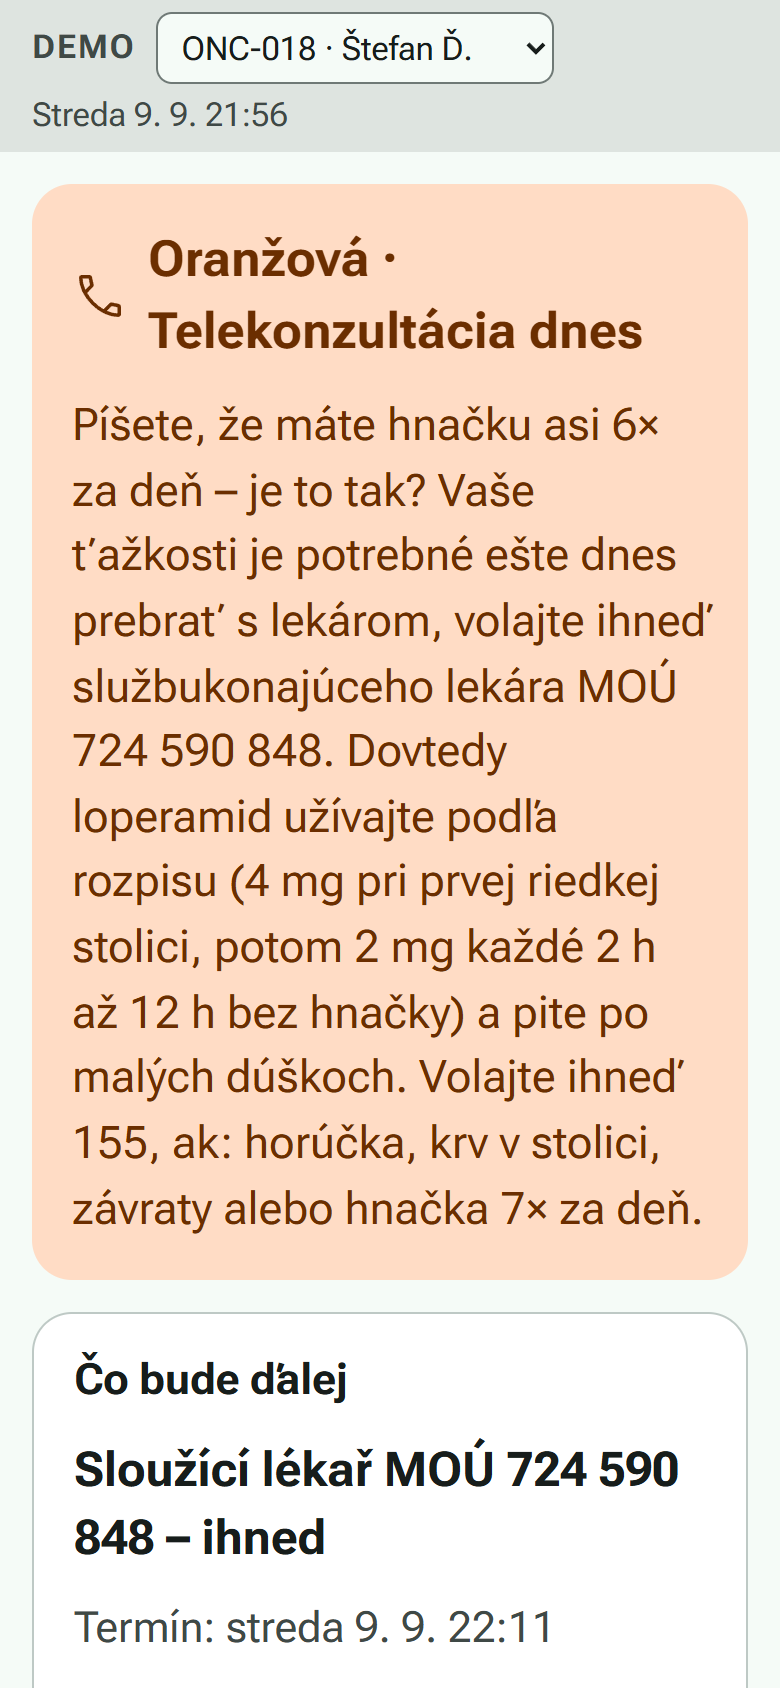
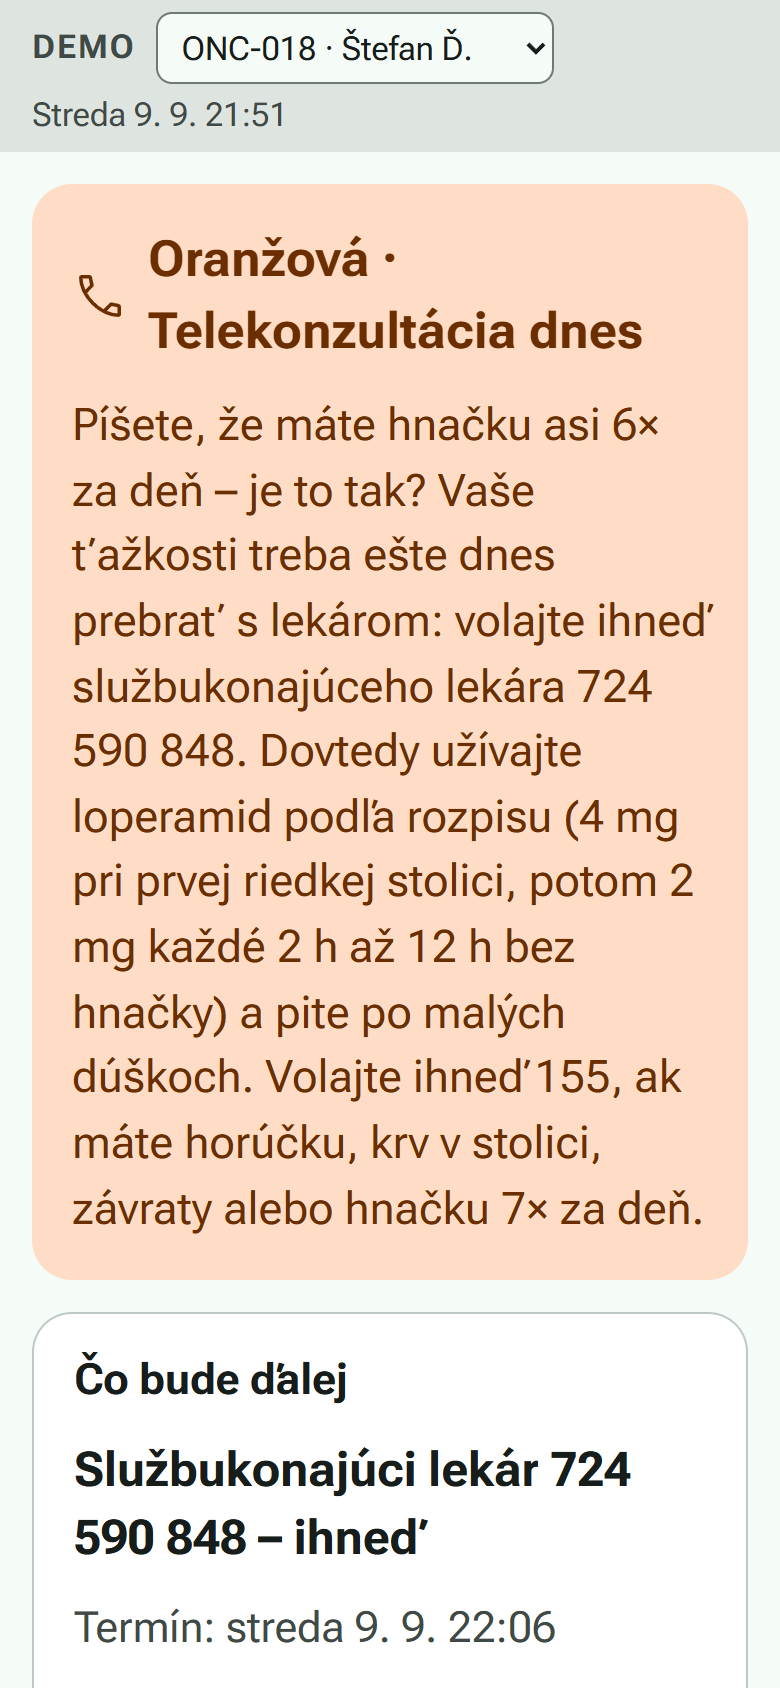
Refresh the README visuals without MOÚ and show notifications and IRIS
Every screenshot, the hero and the recordings are captured again from the
live demo after the institution name left the apps. New: a reminders
section with the notification rules and a lock screen, and a recording of
the read-only IRIS view with SQL over FHIR, FHIR resources and production
traces. The technical docs list the Notifikace, IRIS and portal routes.

diff --git a/README.md b/README.md
@@ -52,8 +52,25 @@ and opens full screen like any other app, with no app store needed.
 |---|---|---|
 | Open [pacient.nastasiya.com](https://pacient.nastasiya.com/) in **Safari**, tap **Share**, then **Add to Home Screen** | Open the link in **Chrome**, tap the menu **⋮**, then **Install app** or **Add to Home screen** | In **Chrome** or **Edge**, click the install icon in the address bar |
 
-On a phone the app is one clear column; on a tablet it fills the whole screen. Reminders on iPhone and iPad work in
-the installed app (iOS 16.4 or newer). The clinician web is made for computers and also opens on tablets and phones.
+On a phone the app is one clear column; on a tablet it fills the whole screen. The clinician web is made for
+computers and also opens on tablets and phones.
+
+## Reminders on the phone
+
+<img src="docs/screenshots/notifications.png" width="100%" alt="Left: the notification rules in the clinician web. Right: a locked phone showing two MEDDI notifications, a check-in reminder and a message from the team">
+
+The care team decides when patients get a reminder. The patient sees it even on a locked phone, and a tap opens the
+right screen.
+
+- **Daily reminder** at a set time for everyone who has not filled in today's check-in.
+- **Missed check-in** after a few days without one; a day earlier for high-risk patients.
+- **Message from the team** right after the team calls, holds a video consultation or closes the task.
+- **Follow-up question** when the navigator needs one more answer.
+
+The texts never contain health data, because they show on the lock screen. The patient turns reminders on in the app
+under *Nastavení* → *Zapnout upozornění*; on iPhone and iPad this works in the app added to the home screen
+(iOS 16.4 or newer). The team sets the rules and can send a test reminder in
+[Notifikace ↗](https://lekar.nastasiya.com/#/notifikace).
 
 ## What it looks like
 
@@ -131,11 +148,22 @@ expected by the organisers.
 
 The full numbers are in the [technical documentation](docs/README.md#metrics).
 
-## Under the hood
+## InterSystems IRIS for Health
 
-Health data is stored in **InterSystems IRIS for Health** in the healthcare standard **FHIR**, so the navigator can
-connect to existing hospital systems, and alerts go out through a proposed interface for MEDDI. How it is built, how to run it and
-every rule: [technical documentation](docs/README.md).
+<img src="docs/screenshots/demo-iris.gif" width="100%" alt="Recording: the IRIS tab in the clinician web with the FHIRSERVER namespace, almost 7,000 FHIR resources and the running production, a SQL query over FHIR data, a FHIR Task resource and the production trace of an alert">
+
+<sub><b>Live from the demo server.</b> The storage overview, a SQL query that reads Hana's weight straight from FHIR,
+a triage task stored as a FHIR resource, and the same alert travelling through the IRIS production toward MEDDI.</sub>
+
+Everything the navigator works with is stored in **InterSystems IRIS for Health** in the healthcare standard
+**FHIR**: patients, check-ins, triage results, tasks and alerts. Trends are read with SQL straight over the FHIR data,
+the chat looks up guidance with IRIS Vector Search, and every alert also goes through an IRIS production toward MEDDI.
+That is what lets the navigator connect to existing hospital systems.
+
+See it live, no login needed: [overview ↗](https://lekar.nastasiya.com/#/iris) ·
+[SQL ↗](https://lekar.nastasiya.com/#/iris/sql) · [FHIR resources ↗](https://lekar.nastasiya.com/#/iris/fhir) ·
+[production traces ↗](https://lekar.nastasiya.com/#/iris/produkce) · [FHIR API ↗](https://lekar.nastasiya.com/fhir/r4/metadata).
+How it is built, how to run it and every rule: [technical documentation](docs/README.md).
 
 > [!NOTE]
 > This is a hackathon prototype with made-up data. It is not a medical device. If you feel unwell, call your doctor

diff --git a/docs/README.md b/docs/README.md
@@ -91,9 +91,13 @@ monitoring centre). A restart of the API resets the clock and the demo state.
 | | [`#/pacienti`](https://lekar.nastasiya.com/#/pacienti) | Patients sorted by the last level |
 | | [`#/pacienti/ONC-001`](https://lekar.nastasiya.com/#/pacienti/ONC-001) | Patient detail: regimen, tags, vitals trends, timeline |
 | | [`#/pravidla`](https://lekar.nastasiya.com/#/pravidla) | Routing by working hours, SLA and the rules |
-| | [`#/test-notifikace?patient=ONC-001`](https://lekar.nastasiya.com/#/test-notifikace?patient=ONC-001) | Web Push test: on a real phone open the patient app with ONC-001 in the *DEMO* bar (iPhone: add it to the home screen first), *Nastavení* → *Zapnout upozornění*; then send a test notification from here, a tap opens the check-in |
+| | [`#/notifikace?patient=ONC-001`](https://lekar.nastasiya.com/#/notifikace?patient=ONC-001) | Web Push test: on a real phone open the patient app with ONC-001 in the *DEMO* bar (iPhone: add it to the home screen first), *Nastavení* → *Zapnout upozornění*; then send a test notification from here, a tap opens the check-in (`#/test-notifikace` redirects here) |
+| | [`#/notifikace/pravidla`](https://lekar.nastasiya.com/#/notifikace/pravidla) | Notification rules on the demo clock: daily reminder, missed check-in, message from the team, follow-up question, quiet hours; [`#/notifikace/historie`](https://lekar.nastasiya.com/#/notifikace/historie) lists what was sent or skipped |
+| | [`#/iris`](https://lekar.nastasiya.com/#/iris) | Read-only IRIS view (not in the menu): overview, [SQL](https://lekar.nastasiya.com/#/iris/sql) with prepared queries, [FHIR](https://lekar.nastasiya.com/#/iris/fhir) resources as JSON, [production](https://lekar.nastasiya.com/#/iris/produkce) message traces |
 | **API** | [`/api/health`](https://lekar.nastasiya.com/api/health) | Status of IRIS, FHIR, the LLM and the MCP server |
 | | [`/mock/meddi/requests`](https://lekar.nastasiya.com/mock/meddi/requests) | Alerts (levels 2–4) that the IRIS production forwarded to the proposed MEDDI endpoint; empty after a restart until a new check-in or chat message reaches yellow or higher |
+| **IRIS** | [`/fhir/r4/metadata`](https://lekar.nastasiya.com/fhir/r4/metadata) | FHIR R4 CapabilityStatement of the IRIS FHIR server |
+| | [Management Portal](https://lekar.nastasiya.com/csp/sys/UtilHome.csp) | Needs an IRIS login; from there the [SQL explorer](https://lekar.nastasiya.com/csp/sys/exp/%25CSP.UI.Portal.SQL.Home.zen?$NAMESPACE=FHIRSERVER), [FHIR management](https://lekar.nastasiya.com/csp/fhir-management/index.html), [production](https://lekar.nastasiya.com/csp/healthshare/fhirserver/EnsPortal.ProductionConfig.zen) and [message viewer](https://lekar.nastasiya.com/csp/healthshare/fhirserver/EnsPortal.MessageViewer.zen) |
 
 ## Repository
 
